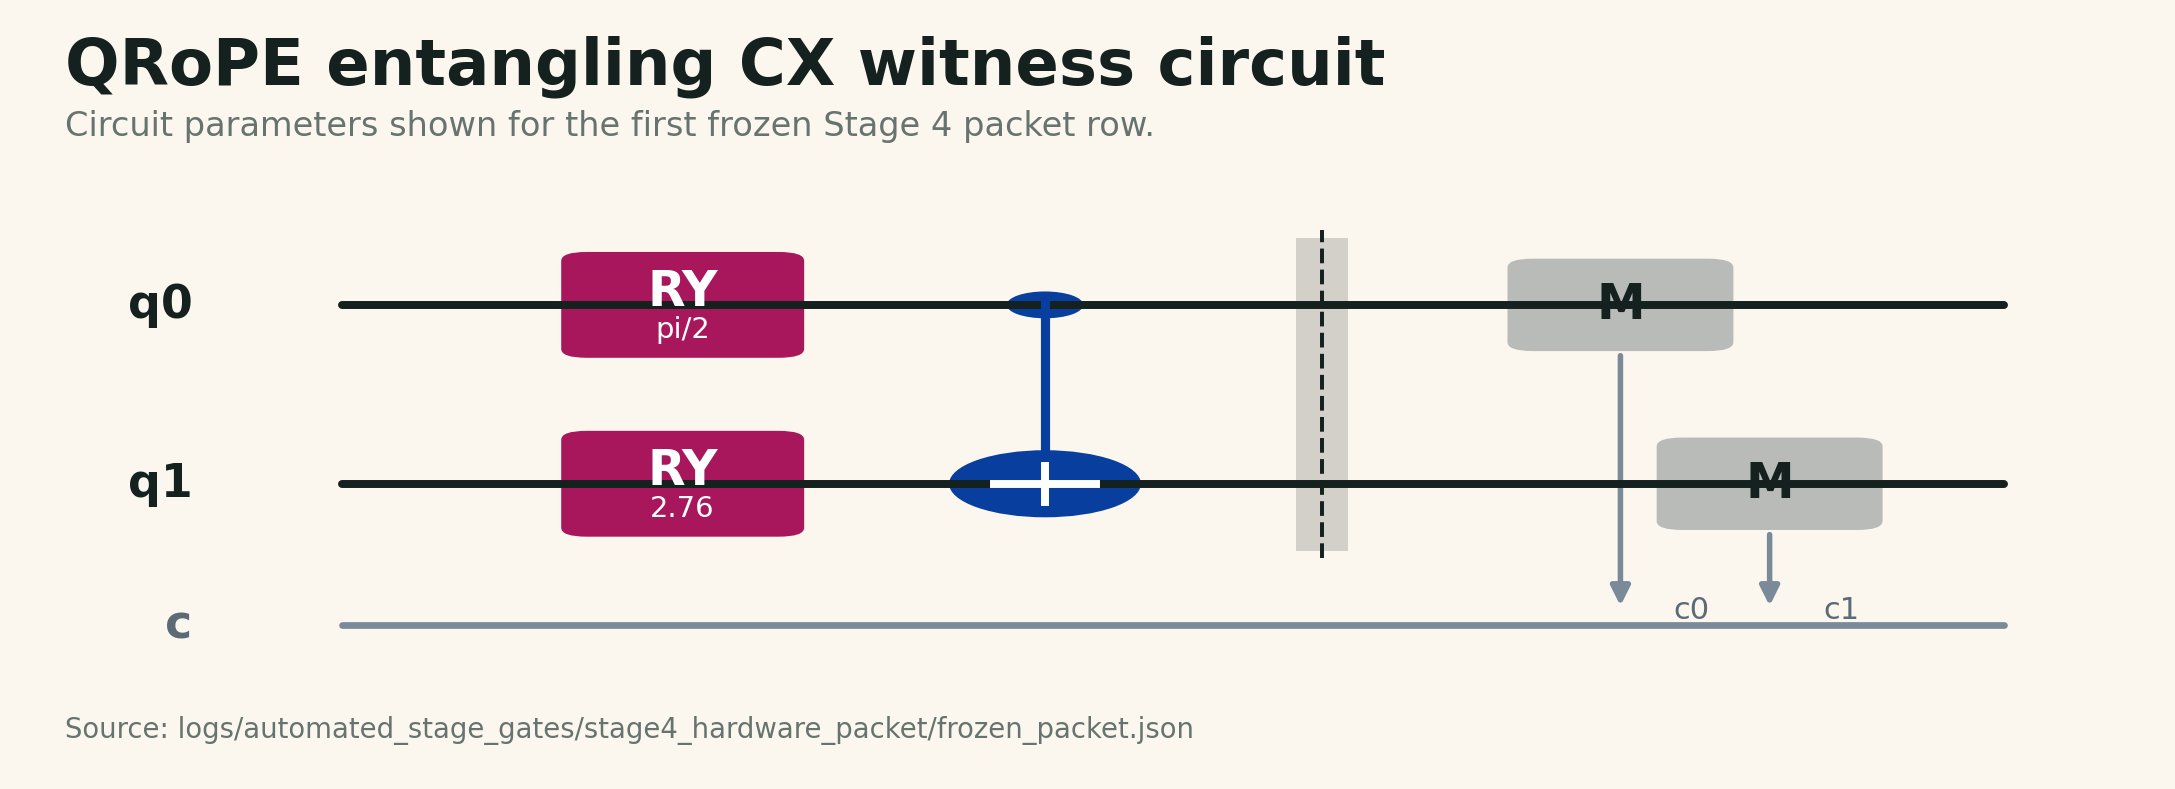
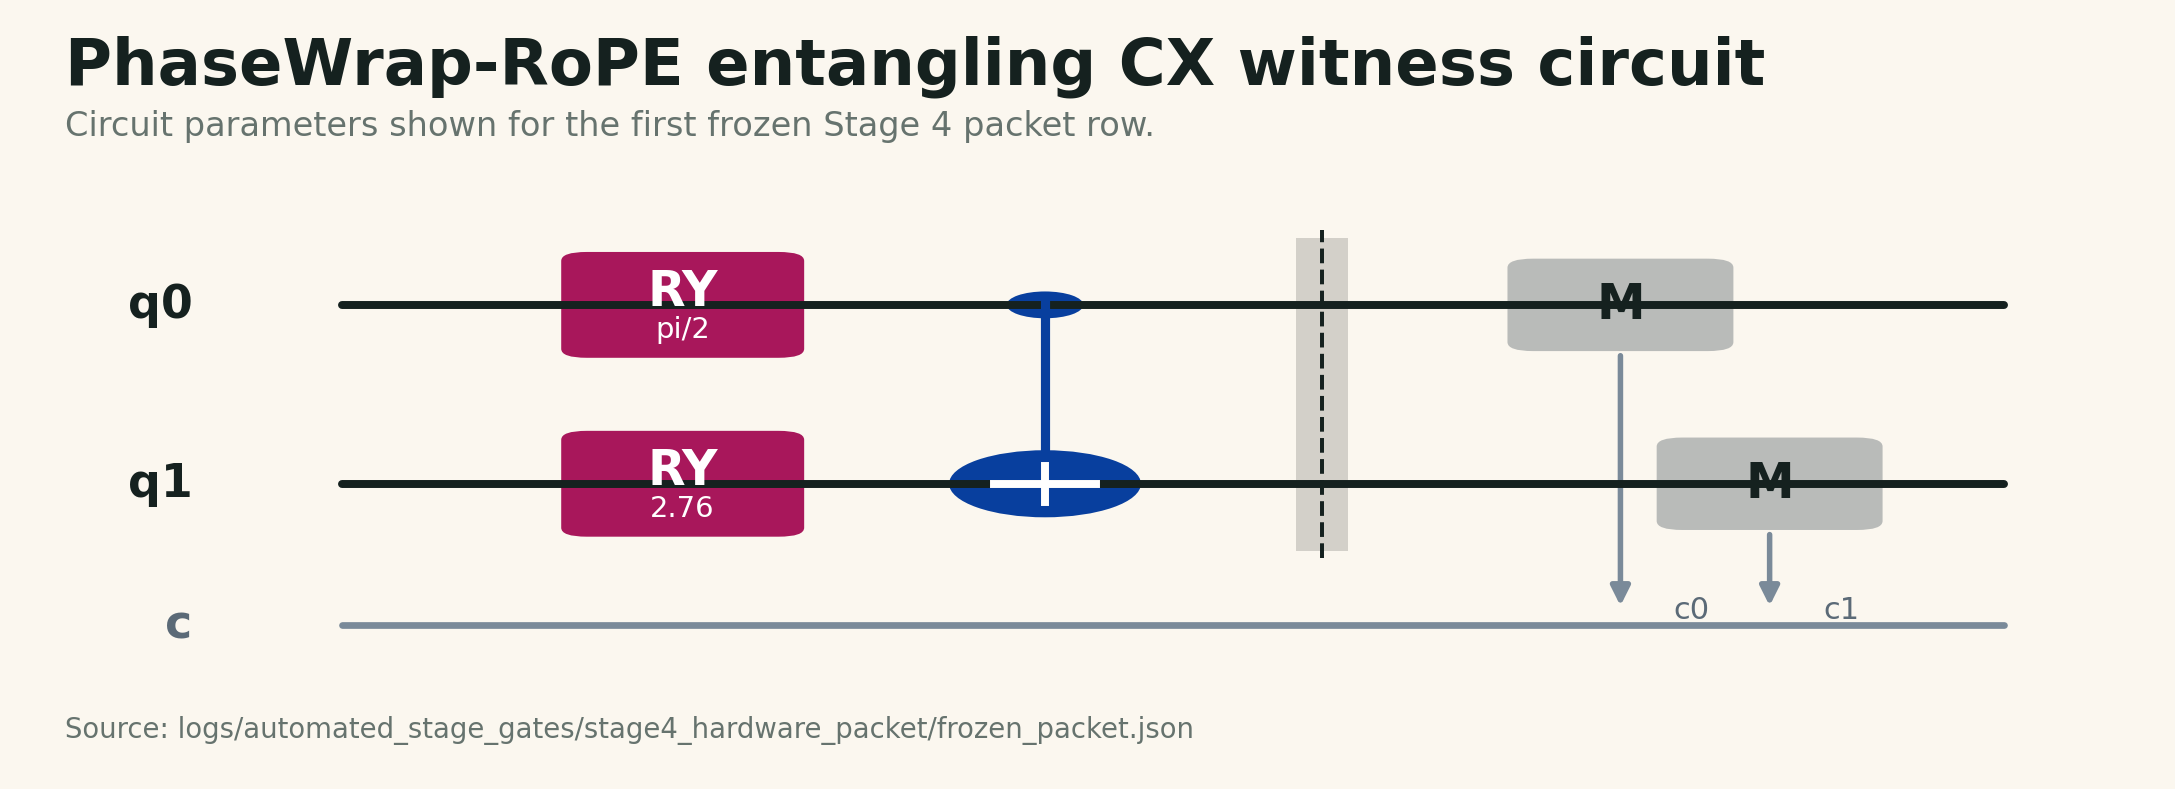
Rename public method to PhaseWrap-RoPE

Changed region(s): [[0.0308, 0.0304, 0.8317, 0.1217]]

diff --git a/scripts/generate_publication_figures.py b/scripts/generate_publication_figures.py
@@ -1,4 +1,4 @@
-"""Generate QRoPE publication figures from repository evidence files.
+"""Generate PhaseWrap-RoPE publication figures from repository evidence files.
 
 This script is intentionally read-only with respect to evidence data. It turns
 the frozen Stage 4 packet, evaluation JSON, and replication ledger into
@@ -83,7 +83,7 @@ def draw_circuit(filename: str, *, entangling: bool) -> None:
     ax.set_xlim(0, 1)
     ax.set_ylim(0, 1)
     ax.axis("off")
-    title = "QRoPE entangling CX witness circuit" if entangling else "QRoPE product-state witness circuit"
+    title = "PhaseWrap-RoPE entangling CX witness circuit" if entangling else "PhaseWrap-RoPE product-state witness circuit"
     subtitle = "Circuit parameters shown for the first frozen Stage 4 packet row."
     ax.text(0.02, 0.94, title, ha="left", va="center", fontsize=21, fontweight="bold", color=INK)
     ax.text(0.02, 0.86, subtitle, ha="left", va="center", fontsize=11, color=MUTED)

diff --git a/docs/publication/qrope-paper-v1.md b/docs/publication/qrope-paper-v1.md
@@ -1,14 +1,14 @@
-# QRoPE: Phase-Wrap Positional Scoring with Reproducible Quantum Hardware Validation
+# PhaseWrap-RoPE: Phase-Wrapped Rotary Positional Scoring with Reproducible Quantum Hardware Validation
 
 ## Abstract
 
-Quantum Rotary Positional Encoding (QRoPE) is a phase-wrap positional-scoring method that represents offset relationships through modular residuals. The method computes wrapped residuals in two periods, converts each residual into a signed cosine margin, and combines the margins into an SQR score. This paper defines the QRoPE score, describes the two-qubit hardware witness used for the current release, and reports a reproducible Stage 4 execution on IBM Quantum hardware.
+PhaseWrap-RoPE is a phase-wrap positional-scoring method that represents offset relationships through modular residuals. The method computes wrapped residuals in two periods, converts each residual into a signed cosine margin, and combines the margins into an SQR score. This paper defines the PhaseWrap-RoPE score, describes the two-qubit hardware witness used for the current release, and reports a reproducible Stage 4 execution on IBM Quantum hardware.
 
-In the released Stage 4 packet, a cross-band witness computed from the measured \(E[Z_0 Z_1]\) expectation tracks the frozen QRoPE labels more closely than an additive single-band control. The recorded 16-row hardware packet reports witness MAE \(0.018382\) and rank correlation \(0.876558\), compared with control MAE \(0.217262\) and rank correlation \(-0.176940\). The contribution of this release is both methodological and evidentiary: QRoPE supplies a compact phase-wrap scoring rule, a deterministic packet-based validation workflow, and raw-count hardware artifacts that can be recomputed offline.
+In the released Stage 4 packet, a cross-band witness computed from the measured \(E[Z_0 Z_1]\) expectation tracks the frozen PhaseWrap-RoPE labels more closely than an additive single-band control. The recorded 16-row hardware packet reports witness MAE \(0.018382\) and rank correlation \(0.876558\), compared with control MAE \(0.217262\) and rank correlation \(-0.176940\). The contribution of this release is both methodological and evidentiary: PhaseWrap-RoPE supplies a compact phase-wrap scoring rule, a deterministic packet-based validation workflow, and raw-count hardware artifacts that can be recomputed offline.
 
 ## Keywords
 
-Quantum positional encoding; rotary positional encoding; phase-wrap scoring; modular residuals; quantum circuit validation; deterministic evidence packets; IBM Quantum hardware.
+Phase-wrapped rotary positional encoding; quantum hardware validation; phase-wrap scoring; modular residuals; quantum circuit validation; deterministic evidence packets; IBM Quantum hardware.
 
 ## 1. Definitions and notation
 
@@ -21,11 +21,11 @@ This section defines the main terms used throughout the paper.
 | Phase | The angular representation \(2\pi\delta/P\) of an offset under period \(P\). |
 | Phase wrap | The operation that shifts an angle by integer multiples of \(2\pi\) into \((-\pi,\pi]\). |
 | Wrapped residual | The absolute wrapped difference between two period-specific phases. It measures phase distance after modular wraparound. |
-| Band | One of the two modular channels used by QRoPE. The current score uses an 8-period band and a 12-period band. |
+| Band | One of the two modular channels used by PhaseWrap-RoPE. The current score uses an 8-period band and a 12-period band. |
 | Signed margin | A cosine residual shifted by a one-step threshold. A positive margin means the residual is inside the one-step boundary; a negative margin means it is outside. |
-| SQR score | The local QRoPE score, computed as the product of the period-8 and period-12 signed margins. |
+| SQR score | The local PhaseWrap-RoPE score, computed as the product of the period-8 and period-12 signed margins. |
 | Normalized label | A clamped value in \([0,1]\) derived from the SQR score over the fixed packet grid. |
-| Witness | The hardware-derived prediction used to test the cross-band QRoPE score. In the current packet, it is derived from \(E[Z_0 Z_1]\). |
+| Witness | The hardware-derived prediction used to test the cross-band PhaseWrap-RoPE score. In the current packet, it is derived from \(E[Z_0 Z_1]\). |
 | Control | The additive single-band baseline used for comparison against the witness. |
 | Shot | One circuit execution and measurement sample. The Stage 4 packet uses 4096 shots per row. |
 | Raw counts | The measured bitstring counts returned by hardware, such as counts for `00`, `01`, `10`, and `11`. |
@@ -41,7 +41,7 @@ This section defines the main terms used throughout the paper.
 
 Positional encodings give attention models access to token order. The Transformer architecture established self-attention as a general sequence-modeling foundation [1]. Rotary Position Embedding (RoPE) later introduced a rotation-based way to encode position while preserving useful relative-position structure in self-attention [2].
 
-QRoPE develops a related phase idea in a narrower and more directly testable form. Instead of beginning with a full transformer implementation, QRoPE defines a local phase-wrap score over integer offsets and validates that score through fixed software and hardware artifacts. The resulting workflow is designed so that a reviewer can inspect the score definition, inspect the frozen packet, recompute the metrics, and compare the cross-band witness against a control condition.
+PhaseWrap-RoPE develops a related phase idea in a narrower and more directly testable form. Instead of beginning with a full transformer implementation, PhaseWrap-RoPE defines a local phase-wrap score over integer offsets and validates that score through fixed software and hardware artifacts. The resulting workflow is designed so that a reviewer can inspect the score definition, inspect the frozen packet, recompute the metrics, and compare the cross-band witness against a control condition.
 
 The paper makes three contributions:
 
@@ -51,15 +51,15 @@ The paper makes three contributions:
 
 ## 3. Relationship to RoPE and positional encoding
 
-RoPE uses rotations to incorporate positional information into transformer self-attention and to express relative-position dependencies [2]. QRoPE keeps the phase-centered intuition but changes the object of study. The present method is a local positional-scoring rule, not a complete transformer positional-embedding layer.
+RoPE uses rotations to incorporate positional information into transformer self-attention and to express relative-position dependencies [2]. PhaseWrap-RoPE keeps the phase-centered intuition but changes the object of study. The present method is a local positional-scoring rule, not a complete transformer positional-embedding layer.
 
-The relationship is therefore conceptual: both RoPE and QRoPE use angular structure, but QRoPE studies wrapped residuals across two modular periods and combines them through a signed product score. This makes the current QRoPE release suitable for packet-based validation before broader architecture-level experiments.
+The relationship is therefore conceptual: both RoPE and PhaseWrap-RoPE use angular structure, but PhaseWrap-RoPE focuses on wrapped residuals across two modular periods and combines them through a signed product score. This makes the current PhaseWrap-RoPE release suitable for packet-based validation before broader architecture-level experiments.
 
-## 4. QRoPE score definition
+## 4. PhaseWrap-RoPE score definition
 
-![QRoPE phase-wrap method schematic](figures/qrope-method-schematic-v1.svg)
+![PhaseWrap-RoPE phase-wrap method schematic](figures/qrope-method-schematic-v1.svg)
 
-**Figure 1.** QRoPE phase-wrap scoring schematic. The figure is conceptual; the formulas below define the method.
+**Figure 1.** PhaseWrap-RoPE phase-wrap scoring schematic. The figure is conceptual; the formulas below define the method.
 
 For integer offsets \(\delta_a\) and \(\delta_b\), define the period-specific wrapped phase as
 
@@ -71,7 +71,7 @@ theta_P(delta) = wrap_pi(2*pi*delta/P)
 r_P(delta_a, delta_b) = abs(wrap_pi(theta_P(delta_a) - theta_P(delta_b)))
 ```
 
-The current QRoPE release uses two residuals:
+The current PhaseWrap-RoPE release uses two residuals:
 
 ```text
 r8  = r_8(delta_a, delta_b)
@@ -85,7 +85,7 @@ m8  = cos(r8)  - cos(pi/4)
 m12 = cos(r12) - cos(pi/6)
 ```
 
-The local QRoPE score is the product of the two margins:
+The local PhaseWrap-RoPE score is the product of the two margins:
 
 ```text
 SQR = m8 * m12
@@ -101,7 +101,7 @@ label = clamp(0.5 + 0.5 * SQR / MAX_ABS_SCORE, 0, 1)
 
 where `MAX_ABS_SCORE` is computed over the fixed delta grid used by the packet generator.
 
-### Algorithm 1. Local QRoPE score
+### Algorithm 1. Local PhaseWrap-RoPE score
 
 ```text
 Input: integer offsets delta_a, delta_b
@@ -141,7 +141,7 @@ The control prediction uses the additive single-band readout:
 control = clamp(0.5 + 0.25 * (E[Z0] + E[Z1]), 0, 1)
 ```
 
-![QRoPE product-state witness circuit](figures/qrope-product-state-circuit-v1.png)
+![PhaseWrap-RoPE product-state witness circuit](figures/qrope-product-state-circuit-v1.png)
 
 **Figure 2.** Product-state witness circuit for the published Stage 4 hardware packet. The rendered parameters are taken from the first frozen packet row.
 
@@ -160,7 +160,7 @@ witness_cx = clamp(0.5 + 0.5 * score_scale * E[Z1 after CX], 0, 1)
 control_cx = clamp(0.5 + 0.25 * (E[Z0 after CX] + E[Z0 Z1 after CX]), 0, 1)
 ```
 
-![QRoPE entangling CX witness circuit](figures/qrope-cx-witness-circuit-v1.png)
+![PhaseWrap-RoPE entangling CX witness circuit](figures/qrope-cx-witness-circuit-v1.png)
 
 **Figure 3.** Entangling CX witness variant implemented for follow-up hardware execution.
 
@@ -168,7 +168,7 @@ Implementation reference: `src/qrope/automated_stage_gates.py`.
 
 ## 6. Validation workflow
 
-![QRoPE deterministic validation pipeline](figures/qrope-validation-pipeline-v1.svg)
+![PhaseWrap-RoPE deterministic validation pipeline](figures/qrope-validation-pipeline-v1.svg)
 
 **Figure 4.** Deterministic validation workflow. The verifier recomputes metrics from frozen packet files and execution records.
 
@@ -206,15 +206,15 @@ IBM Quantum Runtime primitives provide the execution model used by the hardware 
 
 ## 7. Stage 4 hardware result
 
-![QRoPE Stage 4 row-level predictions](figures/qrope-stage4-predictions-v1.png)
+![PhaseWrap-RoPE Stage 4 row-level predictions](figures/qrope-stage4-predictions-v1.png)
 
 **Figure 5.** Stage 4 row-level labels, witness predictions, control predictions, and absolute errors. Source data: `logs/automated_stage_gates/stage4_hardware_packet/evaluation.json`.
 
-![QRoPE Stage 4 witness versus control metrics](figures/qrope-stage4-metrics-v1.png)
+![PhaseWrap-RoPE Stage 4 witness versus control metrics](figures/qrope-stage4-metrics-v1.png)
 
 **Figure 6.** Stage 4 witness versus control summary metrics. Source data: `logs/automated_stage_gates/stage4_hardware_packet/evaluation.json`.
 
-![QRoPE replication lane status](figures/qrope-replication-status-v1.png)
+![PhaseWrap-RoPE replication lane status](figures/qrope-replication-status-v1.png)
 
 **Figure 7.** Replication lane status. Source data: `logs/automated_stage_gates/replication_lanes/replication-ledger.json`.
 
@@ -239,7 +239,7 @@ The released Stage 4 packet records the following execution conditions and metri
 | Control rank correlation | `-0.176940` |
 | Outcome | `hardware-positive` |
 
-The witness condition substantially improves over the additive control on this packet. The row-level results show that the cross-band product readout tracks the frozen labels, while the additive control collapses much of the score structure. The result demonstrates that the QRoPE score, packet generator, hardware readout, and offline verifier form a coherent reproducible validation loop for this Stage 4 execution.
+The witness condition substantially improves over the additive control on this packet. The row-level results show that the cross-band product readout tracks the frozen labels, while the additive control collapses much of the score structure. The result demonstrates that the PhaseWrap-RoPE score, packet generator, hardware readout, and offline verifier form a coherent reproducible validation loop for this Stage 4 execution.
 
 ## 8. Reproducibility artifacts
 
@@ -260,17 +260,17 @@ The current release establishes a method definition and one saved hardware-posit
 - rerun the frozen packet across additional dates and backends;
 - vary packet composition and row count;
 - compare simulator, noisy-simulator, and hardware behavior under controlled settings;
-- test whether QRoPE-style features are useful inside transformer-adjacent models.
+- test whether PhaseWrap-RoPE-style features are useful inside transformer-adjacent models.
 
 These experiments would turn the current packet-level result into a broader empirical study.
 
 ## 10. Availability, license, and patent notice
 
-The QRoPE repository contains the method implementation, verifier, evidence packet, figures, and publication materials. The repository software is released under `AGPL-3.0-only`. QRoPE is patent pending under U.S. provisional patent application `64/068,121`. Commercial patent licensing, non-AGPL use, assignments, and sublicensing should be handled separately with Quantyra/CYINT IP.
+The QRoPE repository contains the PhaseWrap-RoPE method implementation, verifier, evidence packet, figures, and publication materials. Repository filenames and artifact identifiers may retain `qrope` for continuity. The repository software is released under `AGPL-3.0-only`. PhaseWrap-RoPE is patent pending under U.S. provisional patent application `64/068,121`. Commercial patent licensing, non-AGPL use, assignments, and sublicensing should be handled separately with Quantyra/CYINT IP.
 
 ## 11. Conclusion
 
-QRoPE defines a compact phase-wrap positional score based on two modular signed margins. The current hardware packet shows that a two-qubit cross-band witness can reproduce the frozen QRoPE labels more accurately than an additive single-band control under the recorded Stage 4 conditions. More importantly, the release provides a transparent validation workflow: fixed packet, fixed shot count, raw counts, backend metadata, deterministic evaluator, and offline verifier. This makes QRoPE suitable for external review and for systematic follow-up experiments.
+PhaseWrap-RoPE defines a compact phase-wrap positional score based on two modular signed margins. The current hardware packet shows that a two-qubit cross-band witness can reproduce the frozen PhaseWrap-RoPE labels more accurately than an additive single-band control under the recorded Stage 4 conditions. More importantly, the release provides a transparent validation workflow: fixed packet, fixed shot count, raw counts, backend metadata, deterministic evaluator, and offline verifier. This makes PhaseWrap-RoPE suitable for external review and for systematic follow-up experiments.
 
 ## Repository evidence references
 

diff --git a/README.md b/README.md
@@ -1,10 +1,10 @@
-# QRoPE
+# PhaseWrap-RoPE
 
 [![CI](https://github.com/Quantyra/QRoPE/actions/workflows/ci.yml/badge.svg)](https://github.com/Quantyra/QRoPE/actions/workflows/ci.yml)
 
-QRoPE is Quantyra's public research repository for Quantum Rotary Positional Encoding: a bounded evidence lane for phase-wrapped positional scoring and small-circuit hardware validation.
+PhaseWrap-RoPE is Quantyra's public research repository for phase-wrapped rotary positional scoring and small-circuit hardware validation. Repository paths and package names may retain `qrope` for continuity.
 
-This repository is intended for open scientific review of the QRoPE method, validation scripts, evidence packets, and publication materials. It is not a claim of general quantum advantage, full transformer-scale superiority, entanglement-based advantage, or cross-backend hardware robustness.
+This repository is intended for open scientific review of the PhaseWrap-RoPE method, validation scripts, evidence packets, and publication materials. It is not a claim of general quantum advantage, full transformer-scale superiority, entanglement-based advantage, or cross-backend hardware robustness.
 
 ## Status
 
@@ -18,7 +18,7 @@ This repository is intended for open scientific review of the QRoPE method, vali
 
 The public claim frame for this repository is:
 
-- QRoPE defines phase-wrap residual features using mod-8 and mod-12 structure.
+- PhaseWrap-RoPE defines phase-wrap residual features using mod-8 and mod-12 structure.
 - The SQR score uses the product of the mod-8 and mod-12 signed margins.
 - The evidence lane includes deterministic frozen-packet validation, raw counts, backend metadata, and offline recomputation.
 - The Stage 4 result is a bounded real-hardware validation for the frozen packet reported in this repository.
@@ -30,7 +30,7 @@ The public claim frame excludes:
 - broad quantum advantage;
 - full transformer-scale validation;
 - general cross-backend superiority;
-- claims that QRoPE improves production language-model quality;
+- claims that PhaseWrap-RoPE improves production language-model quality;
 - claims that one backend/date/calibration result generalizes without additional evidence.
 
 ## Key documents
@@ -38,7 +38,7 @@ The public claim frame excludes:
 - [Repository paper v1](docs/publication/qrope-paper-v1.md)
 - [Replication plan](docs/publication/replication-plan-v1.md)
 - [Replication ledger](docs/publication/replication-ledger-v1.md)
-- [QRoPE method schematic](docs/publication/figures/qrope-method-schematic-v1.svg)
+- [PhaseWrap-RoPE method schematic](docs/publication/figures/qrope-method-schematic-v1.svg)
 - [Product-state witness circuit](docs/publication/figures/qrope-product-state-circuit-v1.png)
 - [Entangling CX witness circuit](docs/publication/figures/qrope-cx-witness-circuit-v1.png)
 - [Validation pipeline figure](docs/publication/figures/qrope-validation-pipeline-v1.svg)
@@ -117,10 +117,10 @@ Coverage XML is uploaded as a workflow artifact. The broader local test suite re
 
 If you cite or discuss this work, use the bounded posture:
 
-> QRoPE is a phase-wrap positional-encoding and validation method with repository-backed deterministic evidence packets, including a bounded Stage 4 real-hardware validation result.
+> PhaseWrap-RoPE is a phase-wrap positional-encoding and validation method with repository-backed deterministic evidence packets, including a bounded Stage 4 real-hardware validation result.
 
 Do not restate the result as a proof of broad quantum transformer superiority.
 
 ## Licensing and patent notice
 
-Copyright 2026 Quantyra contributors. Software is released under `AGPL-3.0-only`. QRoPE is patent pending under U.S. provisional patent application `64/068,121`; see [PATENTS.md](PATENTS.md).
+Copyright 2026 Quantyra contributors. Software is released under `AGPL-3.0-only`. PhaseWrap-RoPE is patent pending under U.S. provisional patent application `64/068,121`; see [PATENTS.md](PATENTS.md).

diff --git a/PATENTS.md b/PATENTS.md
@@ -1,6 +1,6 @@
 # Patent notice
 
-QRoPE is patent pending.
+PhaseWrap-RoPE is patent pending.
 
 U.S. provisional patent application: `64/068,121`
 
@@ -12,7 +12,7 @@ The repository software is licensed under `AGPL-3.0-only`. See `LICENSE` and `NO
 
 ## Research and review use
 
-Subject to rights owned or controlled by Quantyra/CYINT, Quantyra/CYINT grants a non-exclusive, royalty-free patent license for non-commercial research, review, replication, and publication use of the QRoPE method as implemented in this AGPL-licensed repository, provided that use of the repository software complies with `AGPL-3.0-only`.
+Subject to rights owned or controlled by Quantyra/CYINT, Quantyra/CYINT grants a non-exclusive, royalty-free patent license for non-commercial research, review, replication, and publication use of the PhaseWrap-RoPE method as implemented in this AGPL-licensed repository, provided that use of the repository software complies with `AGPL-3.0-only`.
 
 Commercial integration, production deployment, non-AGPL use, assignments, sublicensing, or use of any claimed method outside the covered software and non-commercial research/review scope requires a separate written license from Quantyra/CYINT IP.
 

diff --git a/docs/publication/replication-ledger-v1.md b/docs/publication/replication-ledger-v1.md
@@ -1,4 +1,4 @@
-# QRoPE replication ledger v1
+# PhaseWrap-RoPE replication ledger v1
 
 Status: `CREDENTIALLED_HARDWARE_EXECUTION_REQUIRED`
 
@@ -34,4 +34,4 @@ This is a blocker, not a failure of the method. A replication lane becomes publi
 
 ## Publication rule
 
-Do not describe QRoPE as cross-backend robust, cross-date replicated, or entanglement-validated until the relevant lane changes from blocked/planned to completed with raw counts and verifier output. Negative or inconclusive replications should be published in this ledger rather than hidden.
+Do not describe PhaseWrap-RoPE as cross-backend robust, cross-date replicated, or entanglement-validated until the relevant lane changes from blocked/planned to completed with raw counts and verifier output. Negative or inconclusive replications should be published in this ledger rather than hidden.

diff --git a/docs/publication/replication-plan-v1.md b/docs/publication/replication-plan-v1.md
@@ -1,4 +1,4 @@
-# QRoPE replication plan v1
+# PhaseWrap-RoPE replication plan v1
 
 Status: `READY_FOR_CREDENTIALLED_EXECUTION_WITH_LEDGER`
 
@@ -95,4 +95,4 @@ python scripts/verify_stage4_hardware_packet.py --expected-backend "<backend-nam
 
 ## Publication rule
 
-Do not broaden the QRoPE claim boundary until at least one replication lane produces completed raw counts, metadata, and verifier output. Negative or inconclusive replications should be published as evidence rather than hidden. Update `logs/automated_stage_gates/replication_lanes/replication-ledger.json` and `docs/publication/replication-ledger-v1.md` in the same commit that publishes any new replication packet.
+Do not broaden the PhaseWrap-RoPE claim boundary until at least one replication lane produces completed raw counts, metadata, and verifier output. Negative or inconclusive replications should be published as evidence rather than hidden. Update `logs/automated_stage_gates/replication_lanes/replication-ledger.json` and `docs/publication/replication-ledger-v1.md` in the same commit that publishes any new replication packet.